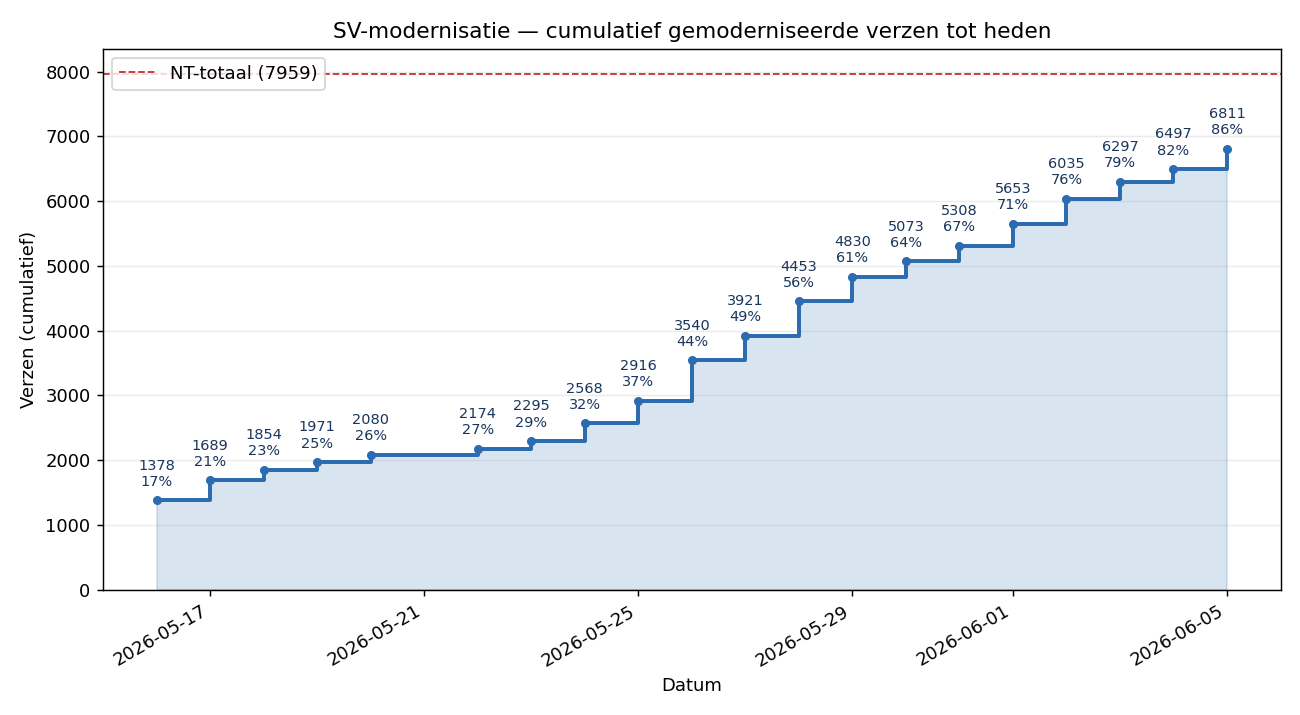
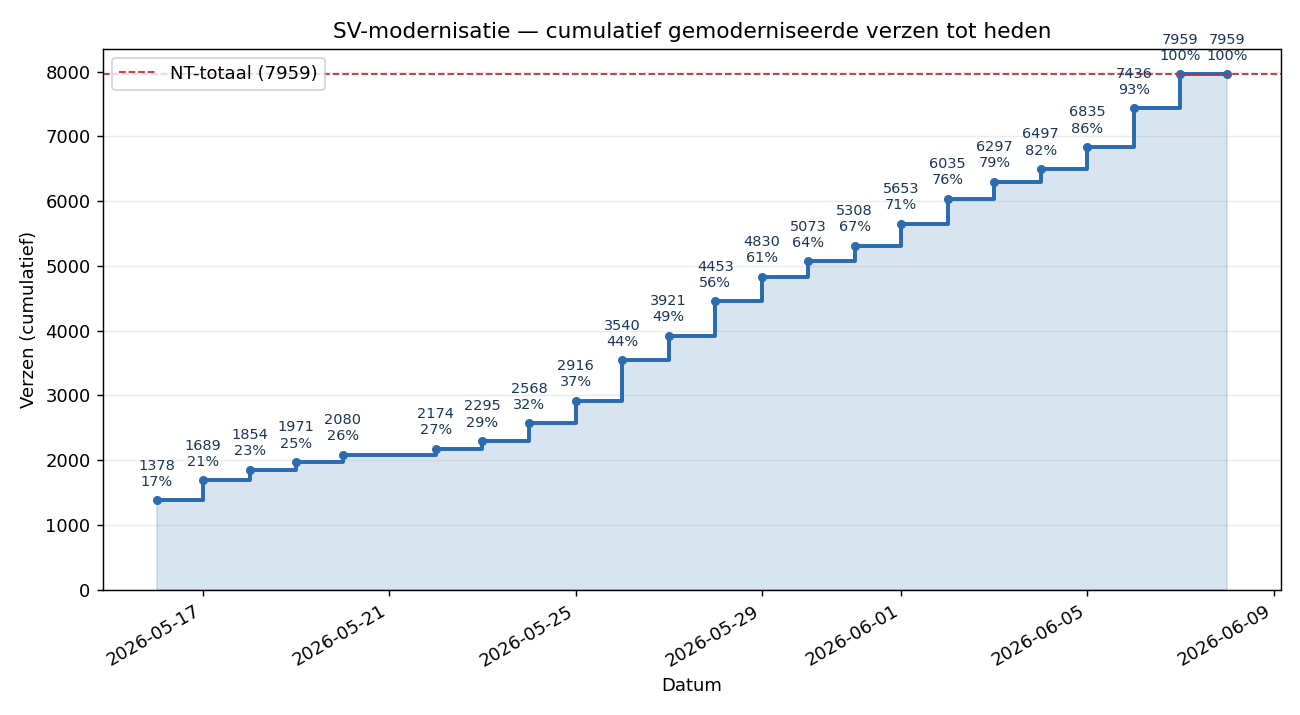
docs: ACT 28/28 in README + progress refresh

diff --git a/docs/nt_boeken_hoofdstukken.md b/docs/nt_boeken_hoofdstukken.md
@@ -27,18 +27,18 @@
 | 23 | Johannes | 21 | 880 | 43.365 | 21 | 100% |
 | 24 | Openbaring | 22 | 405 | 62.547 | 22 | 100% |
 | 25 | Lucas | 24 | 1151 | 44.310 | 24 | 100% |
-| 26 | Handelingen | 28 | 1006 | 59.086 | 11 | 39% |
+| 26 | Handelingen | 28 | 1006 | 59.086 | 28 | 100% |
 | 27 | Matteüs | 28 | 1071 | 47.926 | 28 | 100% |
 
 ## Voortgang
 
 | Eenheid | Gedaan | Totaal | % |
 |---------|--------|--------|---|
-| Hoofdstukken | 243 | 260 | 93,5% |
-| Verzen | 7402 | 7959 | 93,0% |
-| Woorden | 530.055 | 562.108 | 94,3% |
+| Hoofdstukken | 260 | 260 | 100,0% |
+| Verzen | 7959 | 7959 | 100,0% |
+| Woorden | 562.108 | 562.108 | 100,0% |
 
-Gedaan: 2 Johannes (1 hfst / 13 v), 3 Johannes (1 hfst / 15 v), Filemon (1 hfst / 25 v), Judas (1 hfst / 25 v), Titus (3 hfst / 46 v), 2 Tessalonicenzen (3 hfst / 47 v), 2 Petrus (3 hfst / 61 v), 2 Timoteüs (4 hfst / 83 v), Kolossenzen (4 hfst / 95 v), Filippenzen (4 hfst / 104 v), 1 Tessalonicenzen (5 hfst / 89 v), 1 Petrus (5 hfst / 105 v), 1 Johannes (5 hfst / 105 v), Jakobus (5 hfst / 108 v), 1 Timoteüs (6 hfst / 113 v), Galaten (6 hfst / 149 v), Efeze (6 hfst / 155 v), 2 Korintiërs (13 hfst / 256 v), Hebreeën (13 hfst / 303 v), Romeinen (16 hfst / 434 v), 1 Korintiërs (16 hfst / 437 v), Marcus (16 hfst / 678 v), Johannes (21 hfst / 880 v), Openbaring (22 hfst / 405 v), Lucas (24 hfst / 1151 v), Handelingen (11 hfst / 449 v), Matteüs (28 hfst / 1071 v).
+Gedaan: 2 Johannes (1 hfst / 13 v), 3 Johannes (1 hfst / 15 v), Filemon (1 hfst / 25 v), Judas (1 hfst / 25 v), Titus (3 hfst / 46 v), 2 Tessalonicenzen (3 hfst / 47 v), 2 Petrus (3 hfst / 61 v), 2 Timoteüs (4 hfst / 83 v), Kolossenzen (4 hfst / 95 v), Filippenzen (4 hfst / 104 v), 1 Tessalonicenzen (5 hfst / 89 v), 1 Petrus (5 hfst / 105 v), 1 Johannes (5 hfst / 105 v), Jakobus (5 hfst / 108 v), 1 Timoteüs (6 hfst / 113 v), Galaten (6 hfst / 149 v), Efeze (6 hfst / 155 v), 2 Korintiërs (13 hfst / 256 v), Hebreeën (13 hfst / 303 v), Romeinen (16 hfst / 434 v), 1 Korintiërs (16 hfst / 437 v), Marcus (16 hfst / 678 v), Johannes (21 hfst / 880 v), Openbaring (22 hfst / 405 v), Lucas (24 hfst / 1151 v), Handelingen (28 hfst / 1006 v), Matteüs (28 hfst / 1071 v).
 
 Totaal woorden in de bron: 562.108 (incl. kanttekeningen in `<...>`).
 Totalen (hoofdstukken/verzen) geteld uit `input.sv/` (SV1657).

diff --git a/README.md b/README.md
@@ -62,7 +62,7 @@ voorbeeld-PDF om te lezen. **✓** = alle hoofdstukken gemoderniseerd ·
 | Markus | Evangelie | ✓ 16/16 | [PDF](parallelbijbel/MRK_voorbeeld.pdf) |
 | Lucas | Evangelie | ✓ 24/24 | [PDF](parallelbijbel/LUK_voorbeeld.pdf) |
 | Johannes | Evangelie | ✓ 21/21 | [PDF](parallelbijbel/JHN_voorbeeld.pdf) |
-| Handelingen | geschiedenis | ◐ 25/28 | [PDF](parallelbijbel/ACT_voorbeeld.pdf) |
+| Handelingen | geschiedenis | ✓ 28/28 | [PDF](parallelbijbel/ACT_voorbeeld.pdf) |
 | Romeinen | brief | ✓ 16/16 | [PDF](parallelbijbel/ROM_voorbeeld.pdf) |
 | 1 Korinthiërs | brief | ✓ 16/16 | [PDF](parallelbijbel/1CO_voorbeeld.pdf) |
 | 2 Korinthiërs | brief | ✓ 13/13 | [PDF](parallelbijbel/2CO_voorbeeld.pdf) |
